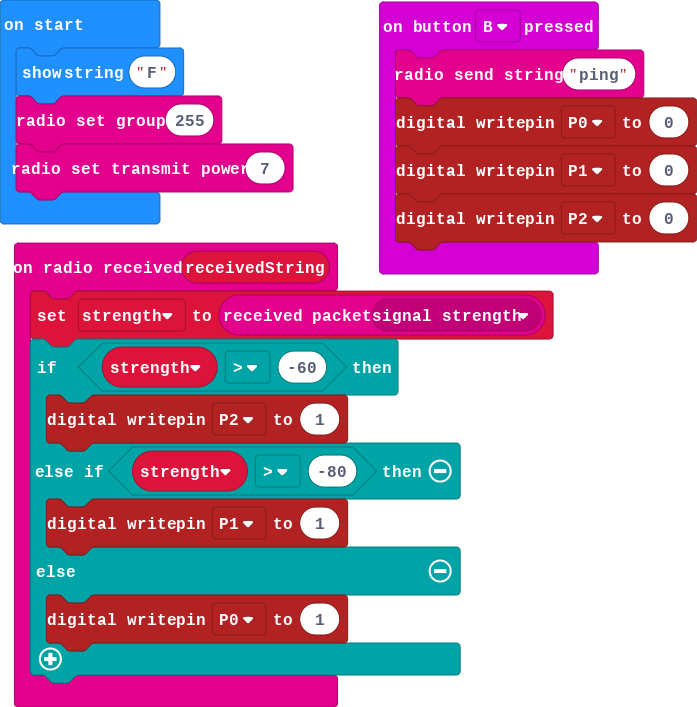
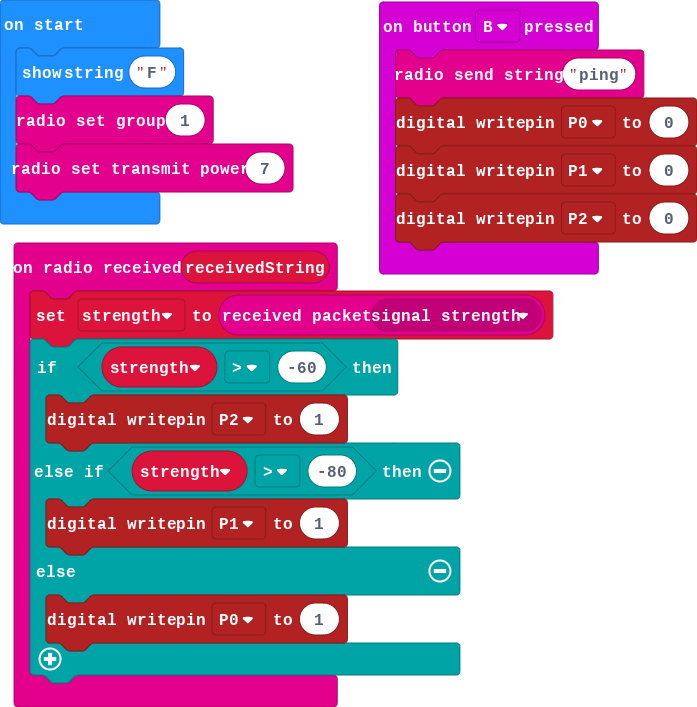
Update main.blocks, main.ts

diff --git a/main.ts b/main.ts
@@ -16,5 +16,5 @@ input.onButtonPressed(Button.B, function () {
 })
 let strength = 0
 basic.showString("F")
-radio.setGroup(255)
+radio.setGroup(1)
 radio.setTransmitPower(7)
